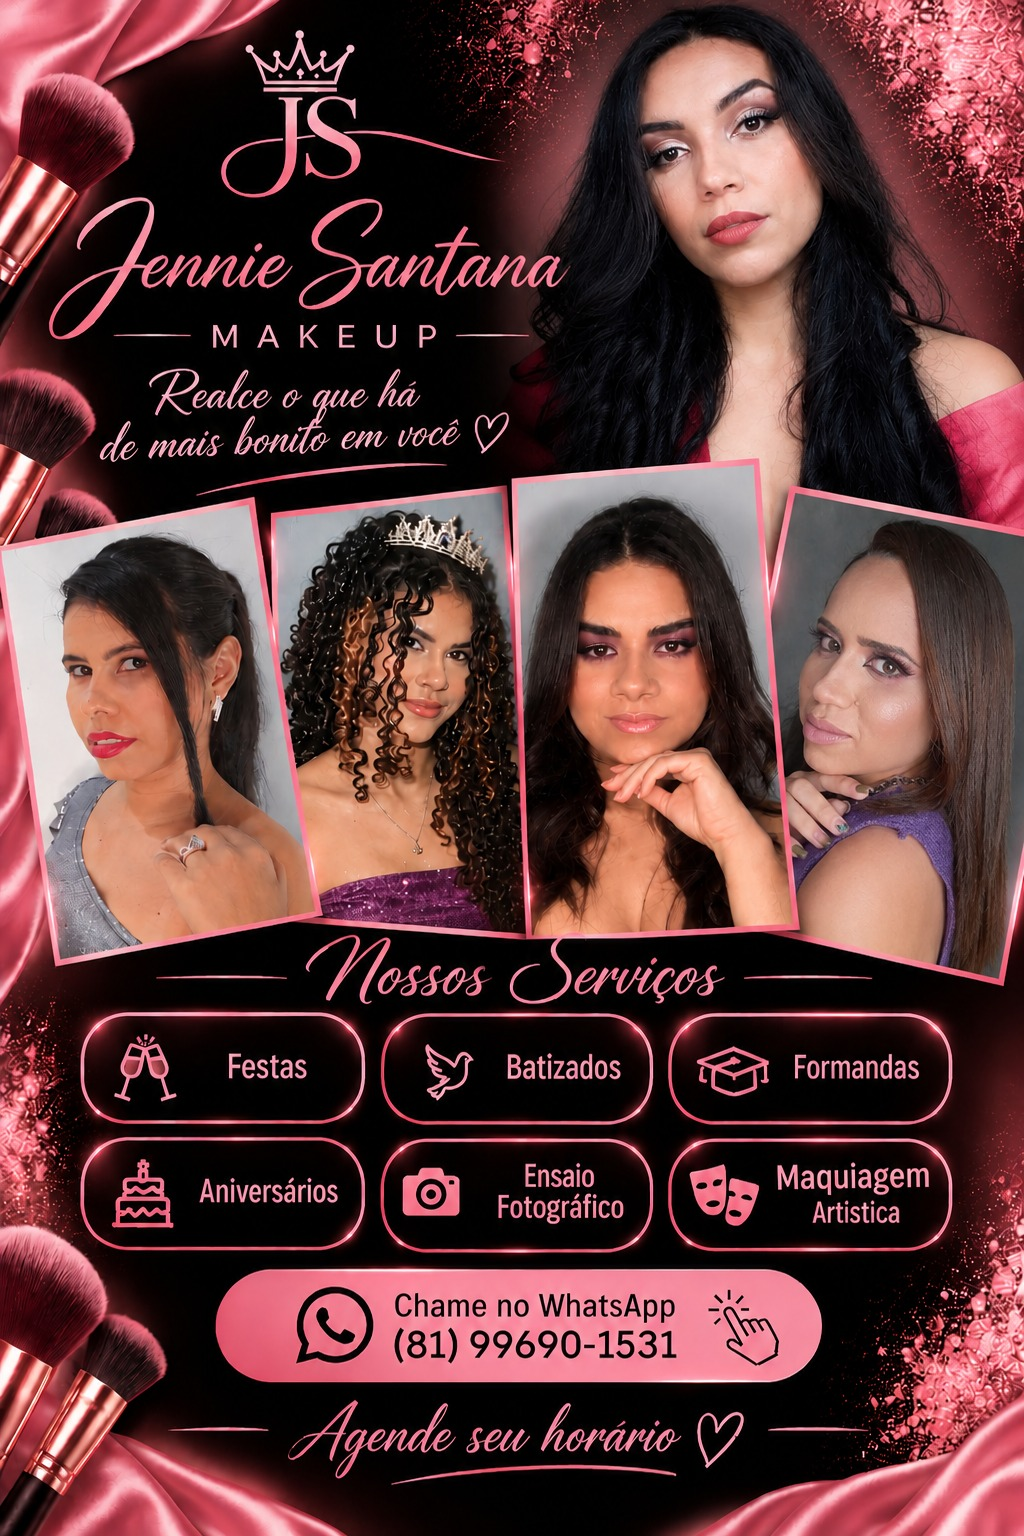
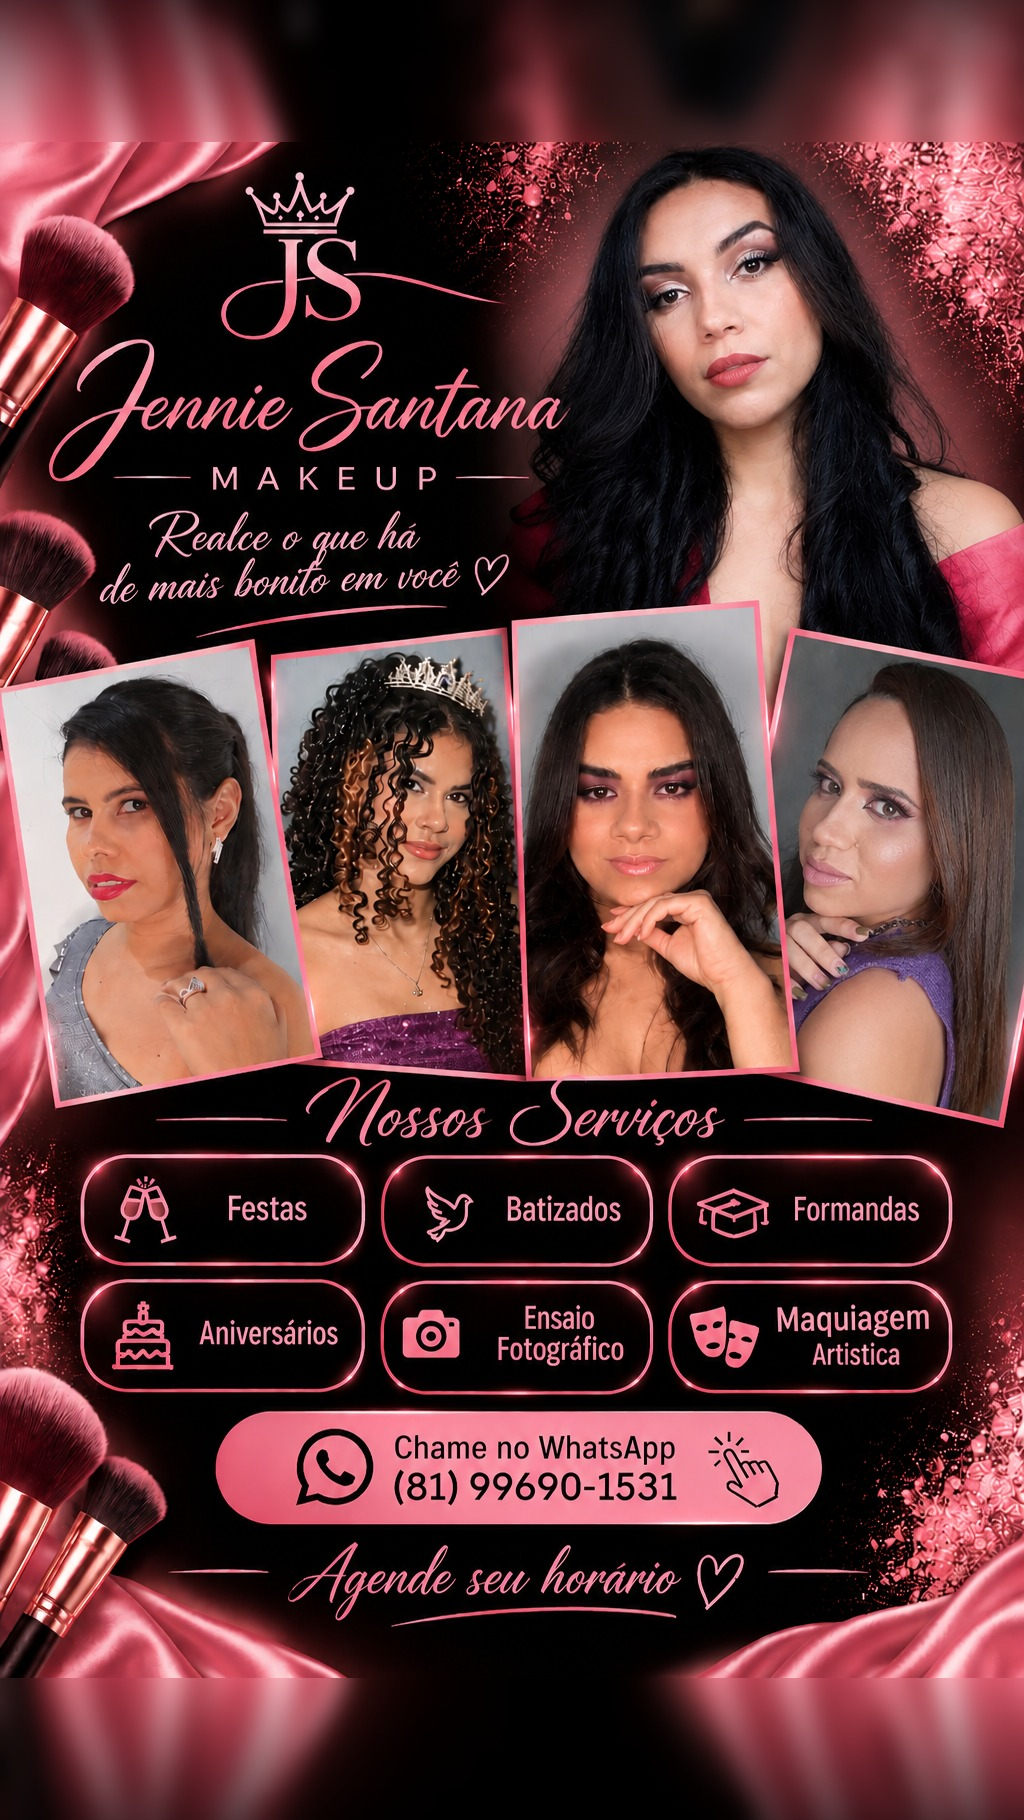
Add files via upload

diff --git a/index.html b/index.html
@@ -10,7 +10,7 @@
 </head>
 <body>
 <main class="page">
-<img src="assets/img/flyer.jpg" width="1024" height="1536" alt="Jennie Santana Makeup. Realce o que há de mais bonito em você. Serviços: festas, batizados, formandas, aniversários, ensaio fotográfico e maquiagem artística. Chame no WhatsApp (81) 99690-1531. Agende seu horário.">
+<img src="assets/img/flyer.jpg" width="1024" height="1820" alt="Jennie Santana Makeup. Realce o que há de mais bonito em você. Serviços: festas, batizados, formandas, aniversários, ensaio fotográfico e maquiagem artística. Chame no WhatsApp (81) 99690-1531. Agende seu horário.">
 <a class="hit ig" href="https://www.instagram.com/jenniesantanamakeup/" target="_blank" rel="noopener" aria-label="Instagram @jenniesantanamakeup"></a>
 <a class="hit wa" href="https://wa.me/5581996901531?text=Ol%C3%A1%2C%20Jennie!%20Vim%20pelo%20seu%20Instagram%20e%20gostaria%20de%20agendar%20um%20hor%C3%A1rio." target="_blank" rel="noopener" aria-label="Chame no WhatsApp (81) 99690-1531"></a>
 <a class="hit ag" href="https://wa.me/5581996901531?text=Ol%C3%A1%2C%20Jennie!%20Vim%20pelo%20seu%20Instagram%20e%20gostaria%20de%20agendar%20um%20hor%C3%A1rio." target="_blank" rel="noopener" aria-label="Agende seu horário no WhatsApp"></a>

diff --git a/jennie-santana-makeup/index.html b/jennie-santana-makeup/index.html
@@ -10,7 +10,7 @@
 </head>
 <body>
 <main class="page">
-<img src="assets/img/flyer.jpg" width="1024" height="1536" alt="Jennie Santana Makeup. Realce o que há de mais bonito em você. Serviços: festas, batizados, formandas, aniversários, ensaio fotográfico e maquiagem artística. Chame no WhatsApp (81) 99690-1531. Agende seu horário.">
+<img src="assets/img/flyer.jpg" width="1024" height="1820" alt="Jennie Santana Makeup. Realce o que há de mais bonito em você. Serviços: festas, batizados, formandas, aniversários, ensaio fotográfico e maquiagem artística. Chame no WhatsApp (81) 99690-1531. Agende seu horário.">
 <a class="hit ig" href="https://www.instagram.com/jenniesantanamakeup/" target="_blank" rel="noopener" aria-label="Instagram @jenniesantanamakeup"></a>
 <a class="hit wa" href="https://wa.me/5581996901531?text=Ol%C3%A1%2C%20Jennie!%20Vim%20pelo%20seu%20Instagram%20e%20gostaria%20de%20agendar%20um%20hor%C3%A1rio." target="_blank" rel="noopener" aria-label="Chame no WhatsApp (81) 99690-1531"></a>
 <a class="hit ag" href="https://wa.me/5581996901531?text=Ol%C3%A1%2C%20Jennie!%20Vim%20pelo%20seu%20Instagram%20e%20gostaria%20de%20agendar%20um%20hor%C3%A1rio." target="_blank" rel="noopener" aria-label="Agende seu horário no WhatsApp"></a>

diff --git a/css/style.css b/css/style.css
@@ -9,11 +9,11 @@ a{text-decoration:none}
 .page img{width:100%;height:auto;display:block}
 /* áreas clicáveis invisíveis sobre a imagem (posição em % da imagem) */
 .hit{position:absolute;display:block}
-.ig{left:4.9%;top:2%;width:51.7%;height:20.8%;border-radius:24px}
-.wa{left:20.8%;top:82.7%;width:59.4%;height:7.3%;border-radius:999px}
-.ag{left:17.6%;top:90.8%;width:66.4%;height:5.5%;border-radius:999px}
+.ig{left:4.9%;top:9.49%;width:51.7%;height:17.55%;border-radius:24px}
+.wa{left:20.8%;top:77.6%;width:59.4%;height:6.16%;border-radius:999px}
+.ag{left:17.6%;top:84.43%;width:66.4%;height:4.64%;border-radius:999px}
 /* celulares (tela mais alta que o flyer): prolonga as bordas de cima e de baixo do próprio flyer para preencher a tela */
-@media (max-aspect-ratio:2/3){
+@media (max-aspect-ratio:9/16){
  body{overflow:hidden}
  .page::before,.page::after{content:"";position:absolute;left:0;right:0;height:100vh;background:url(../assets/img/flyer.jpg) no-repeat;background-size:100% 3000%;transform:scaleY(-1);filter:blur(14px) brightness(.85);pointer-events:none}
  .page::before{bottom:100%;background-position:top;-webkit-mask-image:linear-gradient(to bottom,#000 0,transparent 55%);mask-image:linear-gradient(to bottom,#000 0,transparent 55%)}

diff --git a/jennie-santana-makeup/css/style.css b/jennie-santana-makeup/css/style.css
@@ -9,11 +9,11 @@ a{text-decoration:none}
 .page img{width:100%;height:auto;display:block}
 /* áreas clicáveis invisíveis sobre a imagem (posição em % da imagem) */
 .hit{position:absolute;display:block}
-.ig{left:4.9%;top:2%;width:51.7%;height:20.8%;border-radius:24px}
-.wa{left:20.8%;top:82.7%;width:59.4%;height:7.3%;border-radius:999px}
-.ag{left:17.6%;top:90.8%;width:66.4%;height:5.5%;border-radius:999px}
+.ig{left:4.9%;top:9.49%;width:51.7%;height:17.55%;border-radius:24px}
+.wa{left:20.8%;top:77.6%;width:59.4%;height:6.16%;border-radius:999px}
+.ag{left:17.6%;top:84.43%;width:66.4%;height:4.64%;border-radius:999px}
 /* celulares (tela mais alta que o flyer): prolonga as bordas de cima e de baixo do próprio flyer para preencher a tela */
-@media (max-aspect-ratio:2/3){
+@media (max-aspect-ratio:9/16){
  body{overflow:hidden}
  .page::before,.page::after{content:"";position:absolute;left:0;right:0;height:100vh;background:url(../assets/img/flyer.jpg) no-repeat;background-size:100% 3000%;transform:scaleY(-1);filter:blur(14px) brightness(.85);pointer-events:none}
  .page::before{bottom:100%;background-position:top;-webkit-mask-image:linear-gradient(to bottom,#000 0,transparent 55%);mask-image:linear-gradient(to bottom,#000 0,transparent 55%)}
